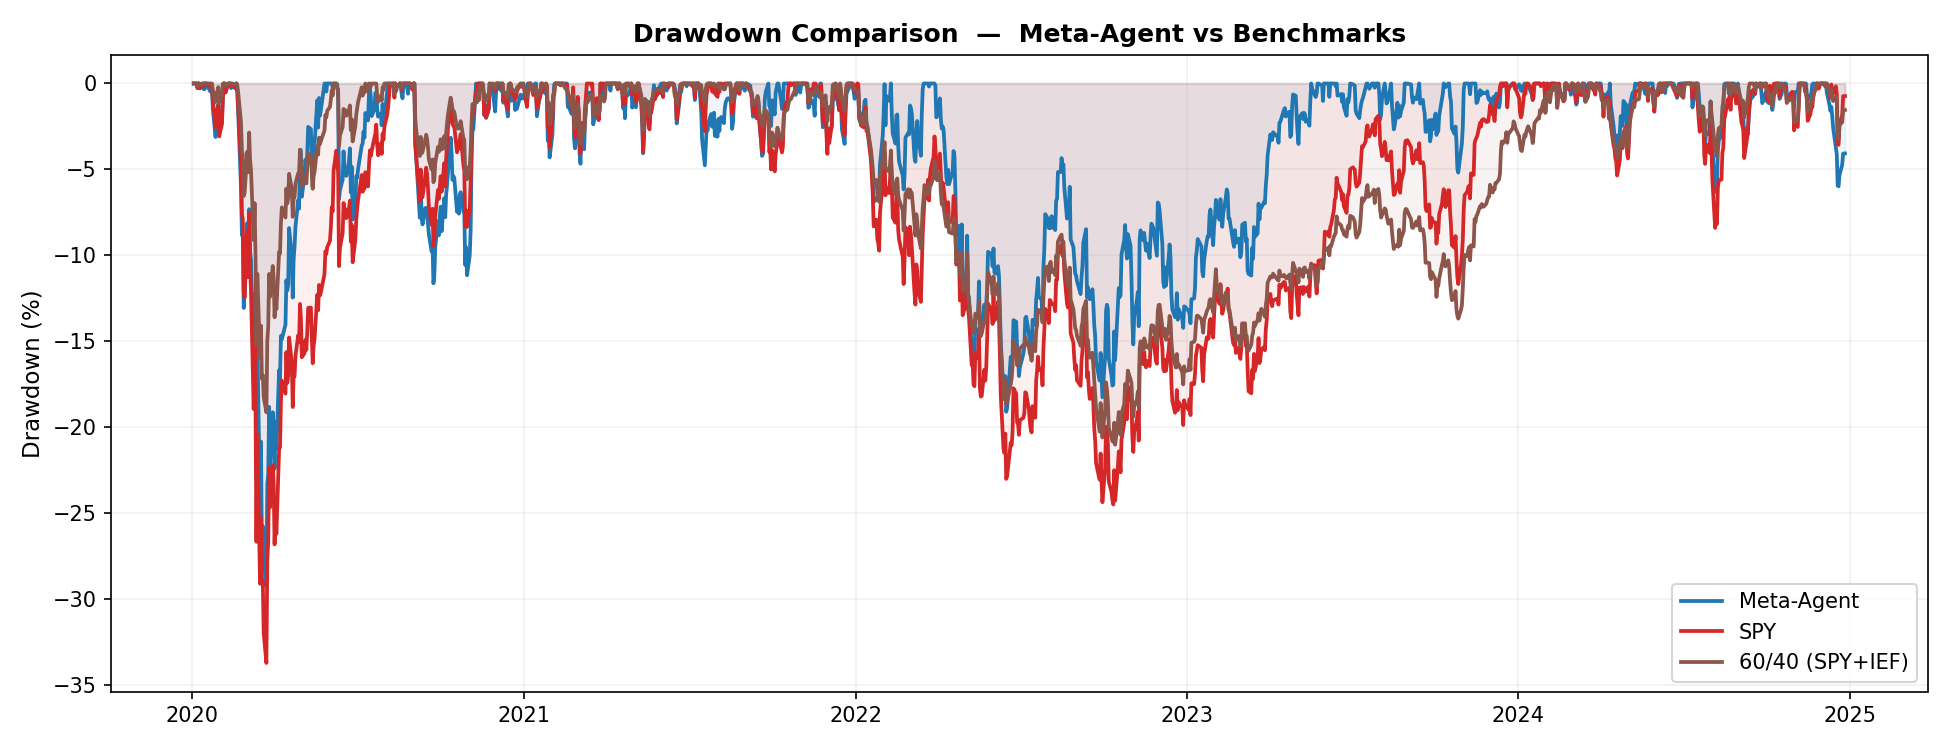
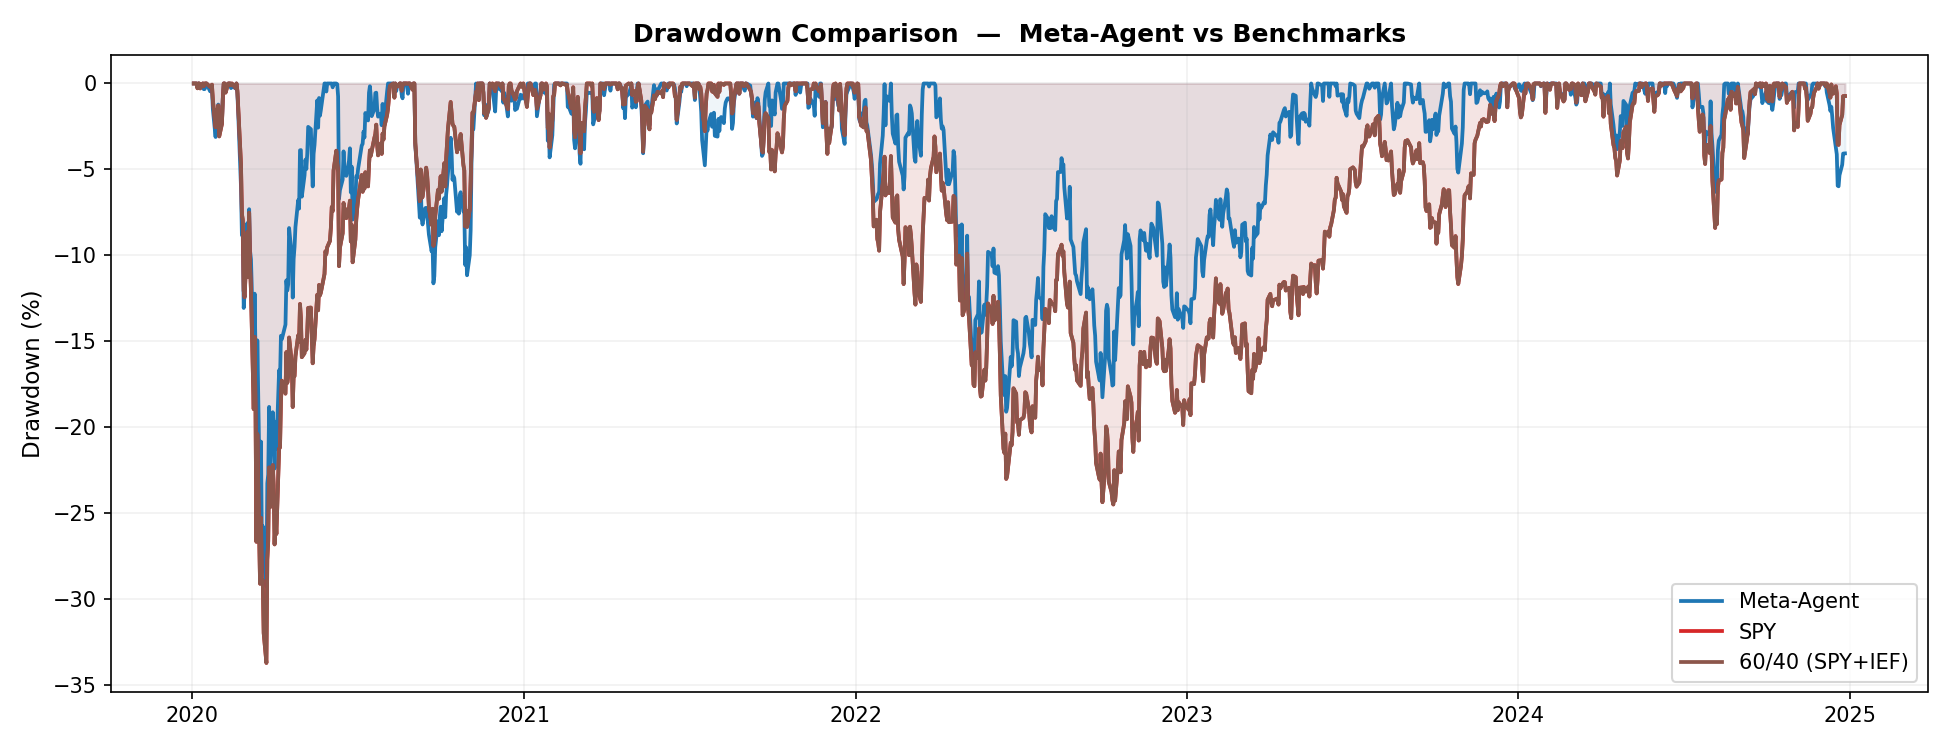
Results of changes

diff --git a/analysis/backtest.py b/analysis/backtest.py
@@ -186,14 +186,20 @@ def benchmark_equal_weight(prices: pd.DataFrame, tickers: list[str]) -> pd.Serie
     return np.log(equal_gross).rename("EqualWeight")
 
 
-def benchmark_sixty_forty(prices: pd.DataFrame) -> pd.Series:
-    """
-    60% SPY + 40% IEF, rebalanced monthly (same approximation as equal_weight).
-    """
-    gross_spy = prices["SPY"] / prices["SPY"].shift(1)
-    gross_ief = prices["IEF"] / prices["IEF"].shift(1)
-    combined  = 0.6 * gross_spy + 0.4 * gross_ief
-    return np.log(combined.iloc[1:]).rename("60/40")
+def benchmark_sixty_forty(prices):
+    
+    # Extract only SPY
+    spy_prices = prices["SPY"].dropna()
+    
+    # Clean the index (strip times, keep first duplicate)
+    spy_prices.index = pd.to_datetime(spy_prices.index.astype(str).str[:10])
+    spy_prices = spy_prices.loc[~spy_prices.index.duplicated(keep='first')]
+
+    # Calculate returns for SPY only
+    gross_spy = spy_prices / spy_prices.shift(1)
+    
+    # Return the log returns
+    return np.log(gross_spy.iloc[1:]).rename("Benchmark (SPY)")
 
 
 # ── 4. Metrics ────────────────────────────────────────────────────────────────
